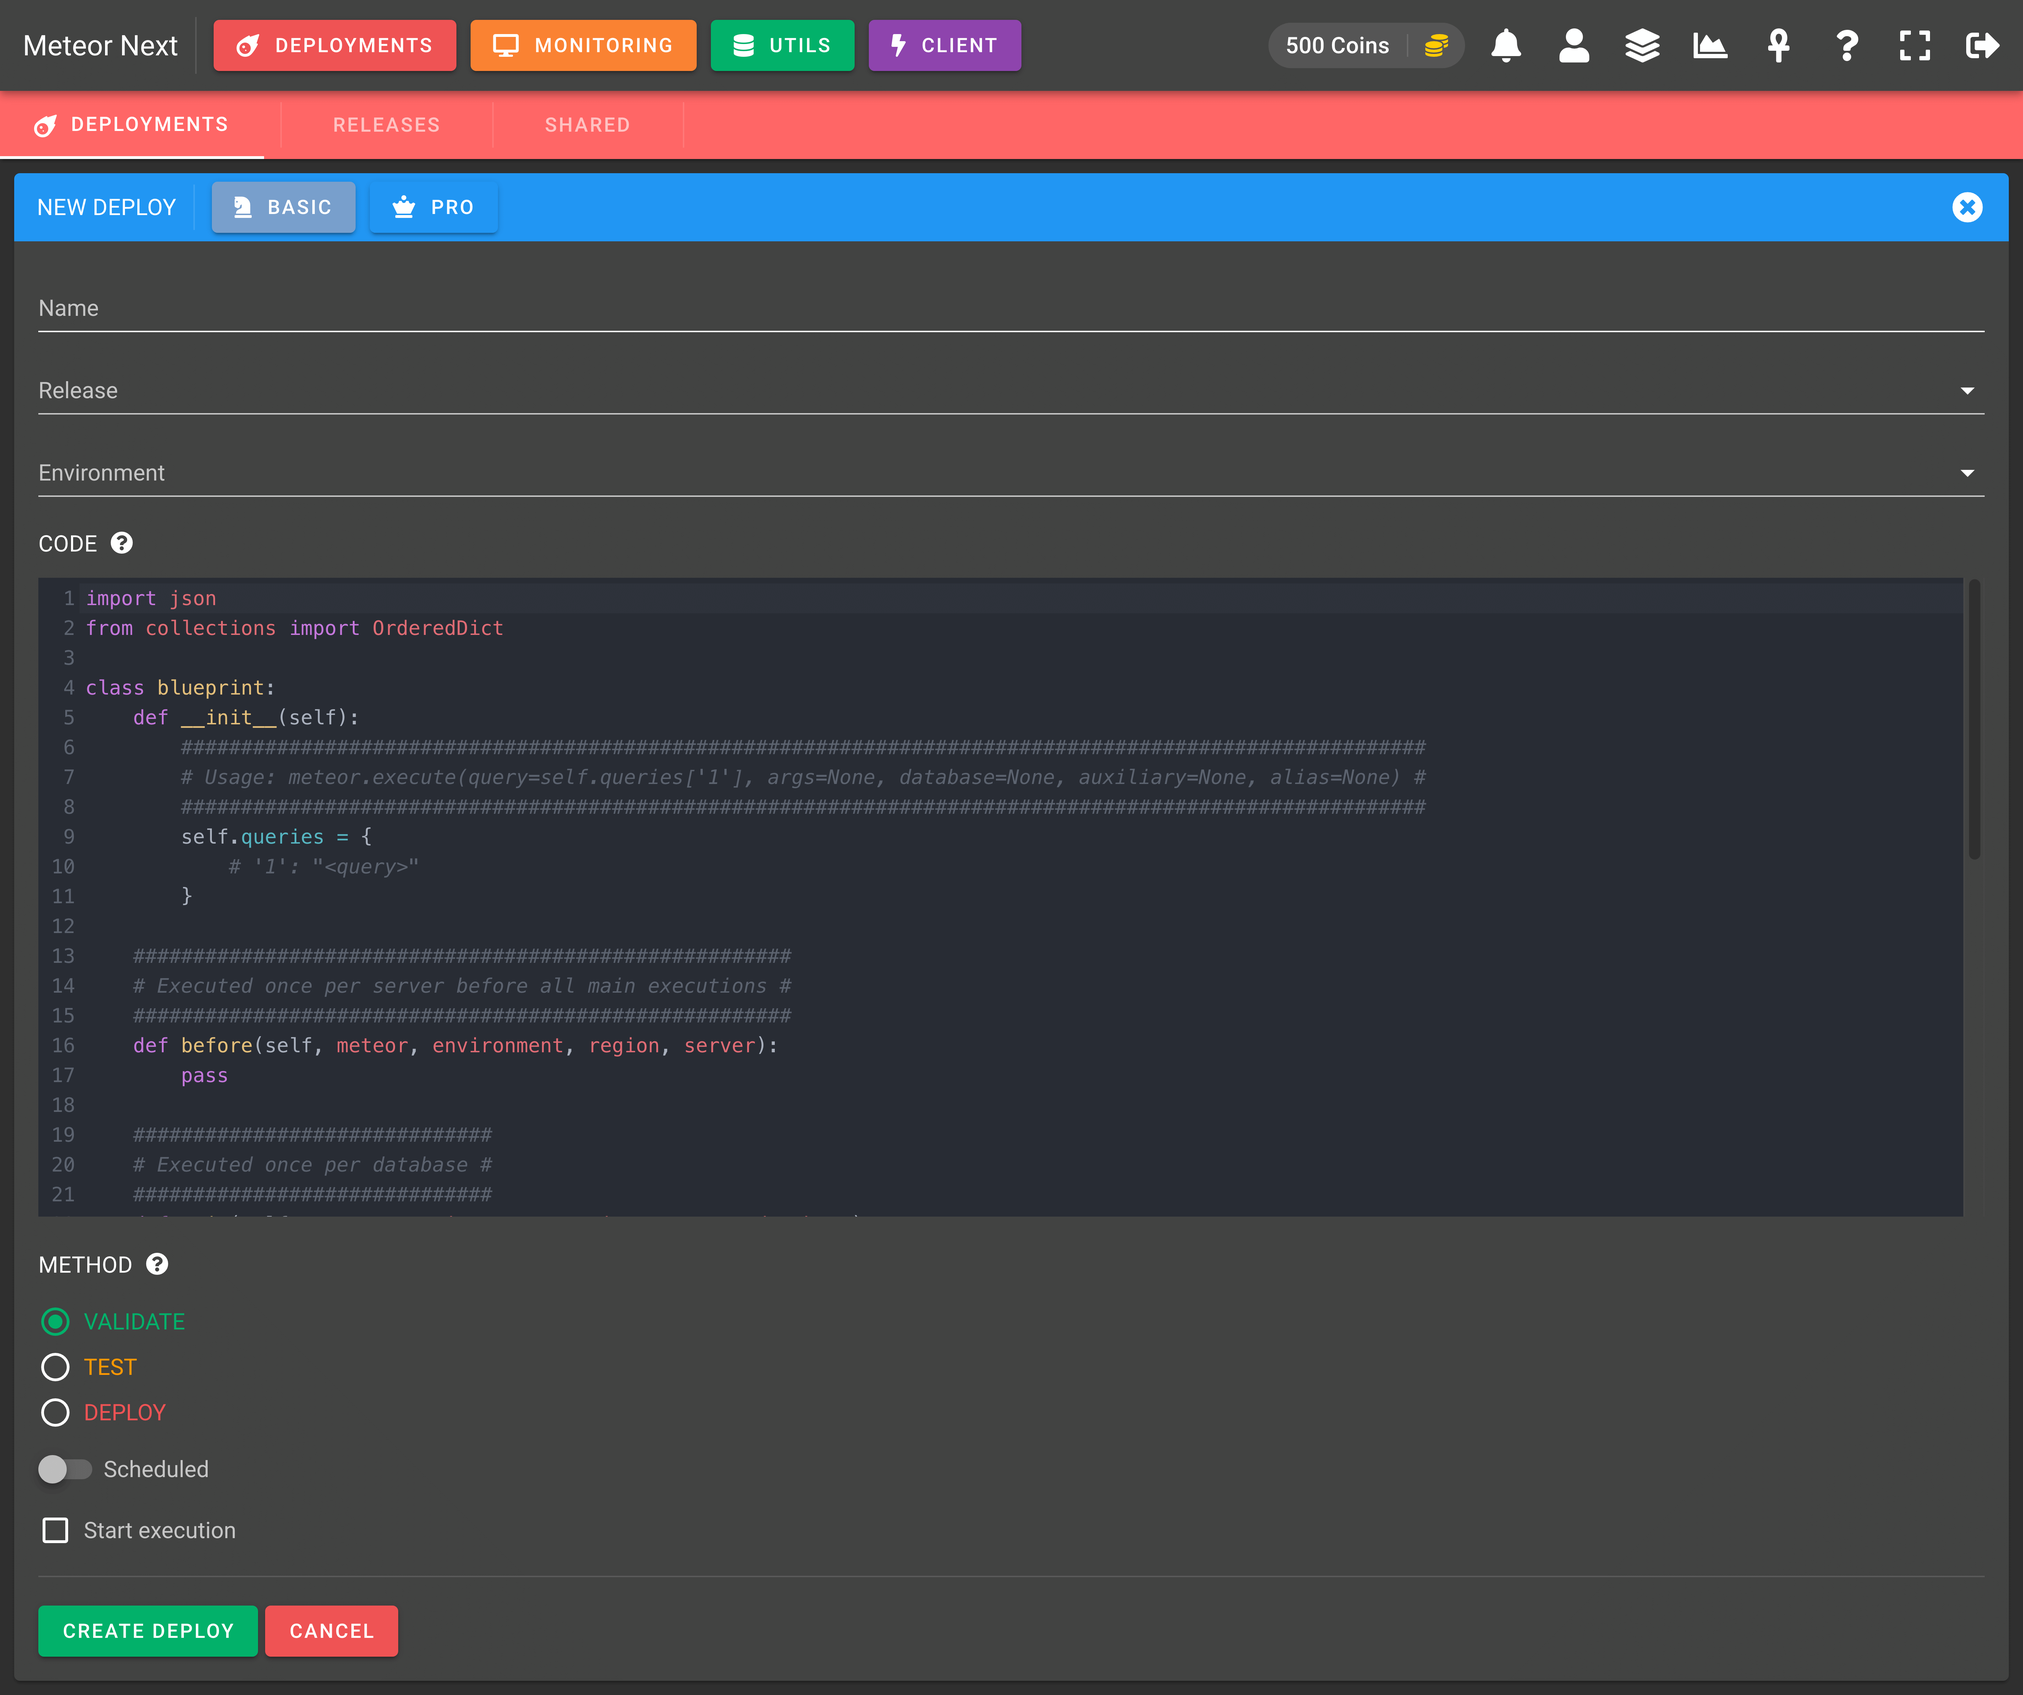
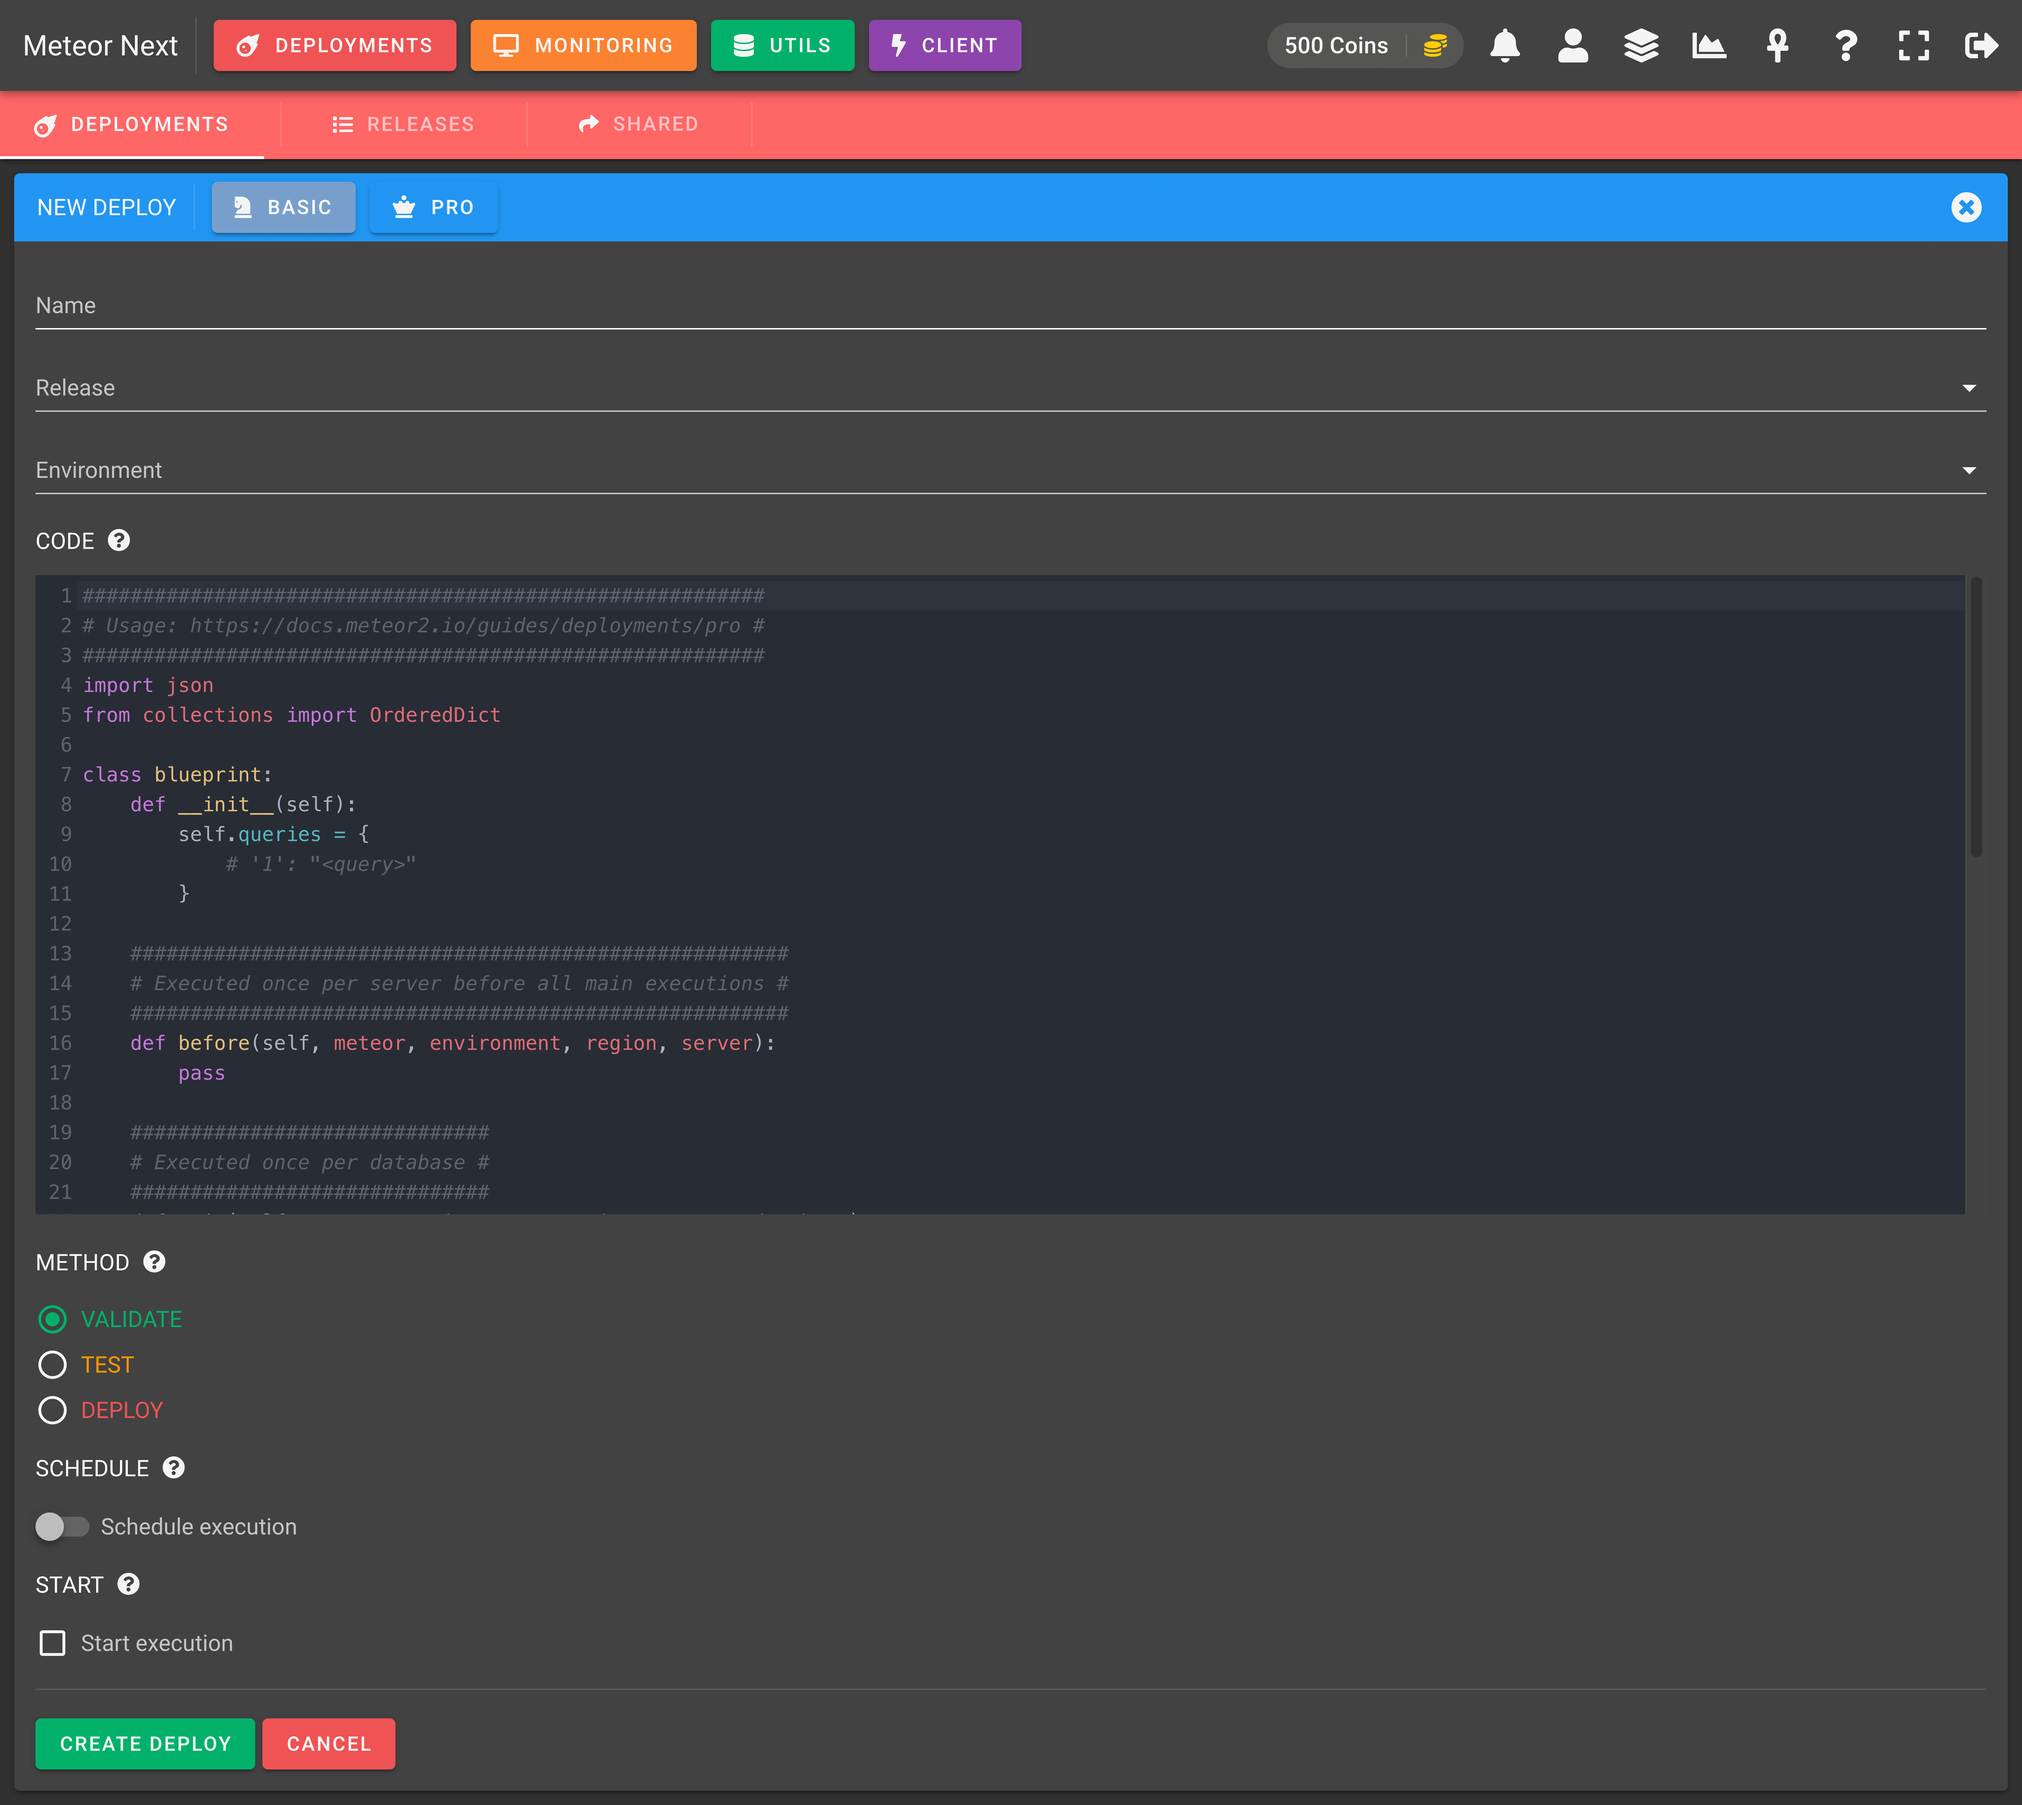
Improvements and added new Deployments Scheduled section

Changed region(s): [[0.0, 0.0, 1.0, 0.9983]]

diff --git a/docs/guides/deployments/execution.md b/docs/guides/deployments/execution.md
@@ -1,5 +1,5 @@
 ---
-sidebar_position: 6
+sidebar_position: 7
 ---
 
 # Execution
@@ -43,19 +43,19 @@ A summary of the total queries that have been executed, how many succeeded, fail
 
 On the top menu bar there are some actions to perform:
 
-**PARAMETERS**
+### Parameters
 
 Shows the deployment details about the current execution (in read-only).
 
 ![alt text](../../../assets/deployments/parameters.png "Deployment - Parameters")
 
-**EXECUTIONS**
+### Executions
 
 Shows all the executions done in the current deployment. In this dialog we can see a previous execution by clicking the right arrow in the last column of the table.
 
 ![alt text](../../../assets/deployments/executions.png "Deployment - Executions")
 
-**RE-DEPLOY**
+### Re-Deploy
 
 It's used to perform another execution from the current deployment. It's useful if we want to execute the same deployment but changing some fields (environment, queries, ...).
 
@@ -65,4 +65,18 @@ Imagine that we deployed some queries for all servers that are part of the `Deve
 
 :::tip
 It's recommended to always perform a Re-Deploy if the deployment we want to perform is related to an existing one.
+:::
+
+### Share
+
+This option is used to share the current deployment make it visible for other users that have a Meteor account.
+
+There are two URLs available. The first one it's to access the execution details and the second one is to see the execution results.
+
+![alt text](../../../assets/deployments/share.png "Deployment - Share")
+
+:::info
+If a deployment is not shared, the owner will be the only one allowed to access it.
+
+Otherwise any user with a Meteor account will have access to see the deployment execution (in ReadOnly) and also will be able to see the execution results.
 :::

diff --git a/docs/guides/deployments/scheduled.md b/docs/guides/deployments/scheduled.md
@@ -1,0 +1,46 @@
+---
+sidebar_position: 6
+---
+
+# Scheduled
+
+Scheduled deployments are used to program a deployment to be executed automatically in a given time.
+
+This feature comes in four flavors:
+
+- **[One-Time execution](#one-time-execution)**: Execute a deployment once in a given datetime.
+- **[Daily execution](#daily-execution)**: Execute a deployment each day at the same time.
+- **[Weekly execution](#weekly-execution)**: Execute a deployment in a specific time on the desired week days.
+- **[Monthly execution](#monthly-execution)**: Execute a deployment in a specific time on the desired months.
+
+### One-Time execution
+
+One-Time executions are used to execute a deployment in a specific datetime.
+
+The following image shows an example of a one-time execution.
+
+![alt text](../../../assets/deployments/scheduled-one-time.png "Scheduled - One Time")
+
+### Daily execution
+
+Daily executions are used to execute a deployment each day at the same time.
+
+The following image shows an example of a daily execution.
+
+![alt text](../../../assets/deployments/scheduled-daily.png "Scheduled - Daily")
+
+### Weekly execution
+
+Weekly executions are used to execute a deployment in a specific time on the desired week days.
+
+The following image shows an example of a weekly execution.
+
+![alt text](../../../assets/deployments/scheduled-weekly.png "Scheduled - Weekly")
+
+### Monthly execution
+
+Monthly executions are used to execute a deployment in a specific time on the desired months.
+
+The following image shows an example of a monthly execution.
+
+![alt text](../../../assets/deployments/scheduled-monthly.png "Scheduled - Monthly")

diff --git a/docs/guides/results.md b/docs/guides/results.md
@@ -2,23 +2,23 @@
 sidebar_position: 7
 ---
 
-# Viewer
+# Results
 
-![alt text](../../assets/viewer/viewer-topbar.png "Viewer Top Bar")
+![alt text](../../assets/results/results-topbar.png "Results Top Bar")
 
-The Viewer section is used to import `Meteor` file formats from any Deployment or any Client export.
+The Results section is used to import `Meteor` file formats from any Deployment or any Client export.
 
-![alt text](../../assets/viewer/viewer1.png "Viewer 1")
+![alt text](../../assets/results/results1.png "Results 1")
 
 :::tip
-To better understand how this tool works and all features that contains please head to the [Results](deployments/results) section.
+To better understand how this tool works and all features that contains please read first the **[Deployment Results](deployments/results)** section.
 :::
 
 ## Example
 
 The following screenshot shows an example of a Meteor file exported from the result of a deployment.
 
-![alt text](../../assets/viewer/viewer2.png "Viewer 2")
+![alt text](../../assets/results/results2.png "Results 2")
 
 ## Building a Meteor file
 
@@ -36,8 +36,8 @@ Here's an example of a valid Meteor file.
 }
 ```
 
-The following screenshot shows how this file would be displayed if it was imported into the Viewer.
+The following screenshot shows how this file would be displayed if it was imported into the Results.
 
-![alt text](../../assets/viewer/viewer-example.png "Viewer Example")
+![alt text](../../assets/results/results-example.png "Results Example")
 
 So, yes, you could build your custom Meteor files and use this tool to better display your data and also to perform any kind of search or filter.

diff --git a/docs/guides/deployments/results.md b/docs/guides/deployments/results.md
@@ -1,5 +1,5 @@
 ---
-sidebar_position: 7
+sidebar_position: 8
 ---
 
 # Results
@@ -131,14 +131,11 @@ This option is used to export the data in the table. There are three available f
 
 This option is used to share a deployment result to a user or many.
 
-Click the `SHARE` button located in the `INFORMATION` bar. After that a dialog will appear with some options:
-
-- **Private**: This button is used to change the visibility of a deployment result. By default all deployment results are private, meaning that only the user that made the deployment has the rights to access it. If we would like to share the results of a deployment to another user we should click this button. After clicking it this results will be "Public", meaning that any user that has an account in Meteor Next will be able to access it.
-- **Copy Link**: To copy the link to the clipboard.
+Click the `SHARE` button located in the `EXECUTION` bar. After that click the `SHARE DEPLOYMENT` button to make it accessible from everyone having a Meteor account.
 
 ![alt text](../../../assets/deployments/results-share.png "Deployment - Results Share")
 
-After clicking the link, a new web browser tab will open showing the results in full screen.
+If we shared the Results URL to another user, it would see the execution results in full screen.
 
 ![alt text](../../../assets/deployments/results-viewer.png "Deployment - Results Viewer")
 

diff --git a/docs/guides/deployments/basic.md b/docs/guides/deployments/basic.md
@@ -59,7 +59,7 @@ Note that both `TEST` and `DEPLOY` options also performs the VALIDATE method und
 
 #### Scheduled
 
-Turn on this option to schedule the execution on a specific date and time.
+Turn on this option to [schedule](scheduled) the execution.
 
 #### Start execution
 

diff --git a/docs/guides/deployments/pro.md b/docs/guides/deployments/pro.md
@@ -88,7 +88,7 @@ Note that both `TEST` and `DEPLOY` options also performs the VALIDATE method und
 
 #### Scheduled
 
-Turn on this option to schedule the execution on a specific date and time.
+Turn on this option to [schedule](scheduled) the execution.
 
 #### Start execution
 
